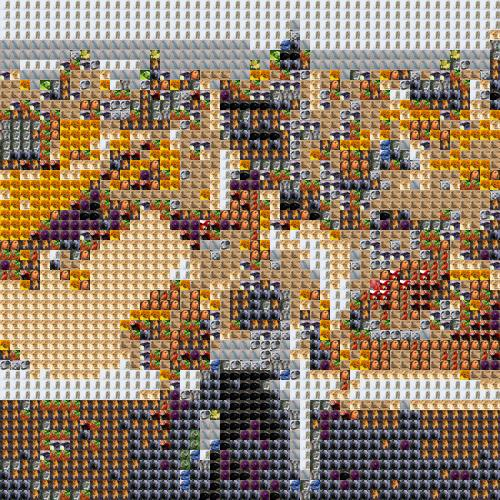
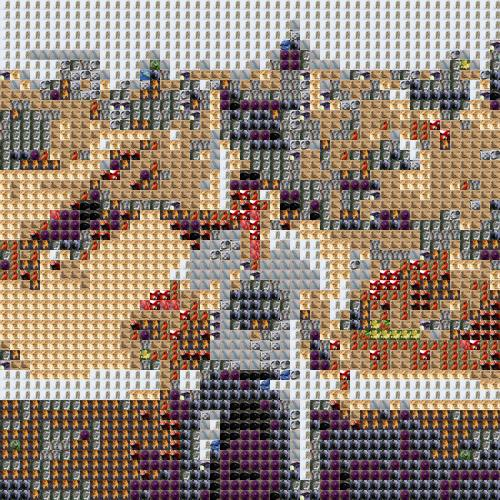
Fixed dodgy rgb average function + added dormant functions for wavelet hashing for future work

diff --git a/mosaic.py b/mosaic.py
@@ -2,6 +2,7 @@ from PIL import Image, ImageOps
 from random import randint
 import os
 import math
+import imagehash
 
 ##################
 #open source image
@@ -27,21 +28,20 @@ def resize_library_images(tile_size):
   return images
 
 ##################
-#calculate average RGB of source image
+#calculate average RGB of image
 ##################
-def calc_average_rgb(image, histogram_average):
+def calc_average_rgb(image, histogram_average, is_block):
   width, height = image.size
-
   PixelValues = list(image.getdata())
 
   #if an RGB value occurs only once, we consider it an outlier, and do not include in
   # our calculcation of the mean
   if histogram_average:
-    for i in PixelValues:
-      if PixelValues.count(i) < 2:
-        #print i, PixelValues.count(i)
-        PixelValues.remove(i)
-    #print len(PixelValues)
+    if is_block:
+      for i in PixelValues:
+        if PixelValues.count(i) < 2:          
+          PixelValues.remove(i)
+      #print len(PixelValues)
 
   RValues = [x[0] for x in PixelValues]
   GValues = [x[1] for x in PixelValues]
@@ -51,16 +51,25 @@ def calc_average_rgb(image, histogram_average):
   return average_rgb_value
 
 ##################
+#calculate hash of image
+##################
+def calc_image_hash(image):
+  hash1 = imagehash.whash(image)
+  #print hash1
+  return hash1
+
+##################
 #divide source image into blocks for replacement
 ##################
-def divide_image_into_blocks(image, tile_size, output_dict, histogram_average):
+def divide_image_into_blocks(image, tile_size, output_rgb_dict, output_hash_dict, histogram_average):
   width, height = image.size
 
   coordinate = 0;
   for i in range(0, width, tile_size[0]):
     for j in range(0, height, tile_size[1]):
       cropped_image = image.crop((i, j, i+tile_size[0], j+tile_size[1]))
-      output_dict[coordinate] = calc_average_rgb( cropped_image, histogram_average )
+      output_rgb_dict[coordinate] = calc_average_rgb(cropped_image, histogram_average, True)
+      output_hash_dict[coordinate] = calc_image_hash(cropped_image)
       coordinate += 1
 
   return ((i,j))
@@ -69,18 +78,35 @@ def divide_image_into_blocks(image, tile_size, output_dict, histogram_average):
 #get euclidean distance between 2 RGB values
 ##################
 def distance( x , y ):
-  dist = math.sqrt((x[0] - y[0])**2 + (x[1] - y[1])**2)
+  dist = math.sqrt((x[0] - y[0])**2 + (x[1] - y[1])**2 + (x[2] - y[2])**2)
   return dist
+
+##################
+#get euclidean distance between 2 RGB values
+##################
+def hash_diff( x , y ):
+  diff = x - y
+  return diff
 
 ##################
 #returns closest tile to block
 ##################
 def closest_tile(tile_rgb_averages, block_rgb_average, vary_tiles):
-  sorted_rgv_values = sorted(tile_rgb_averages, key=lambda x:distance(x, block_rgb_average))
+  sorted_rgb_values = sorted(tile_rgb_averages, key=lambda x:distance(x, block_rgb_average))
   if vary_tiles:
-    return sorted_rgv_values[randint(0, 1)]
+    return sorted_rgb_values[randint(0, 1)]
   else:
-    return sorted_rgv_values[0]
+    return sorted_rgb_values[0]
+
+##################
+#returns closest tile to block based on hash value
+##################
+def closest_tile_hashing(tile_hashes, block_hash, vary_tiles):
+  sorted_rgb_values = sorted(tile_hashes, key=lambda x:hash_diff(x, block_hash))
+  if vary_tiles:
+    return sorted_rgb_values[randint(0, 1)]
+  else:
+    return sorted_rgb_values[0]
 
 ##################
 #main method - construct mosaic from tiles in library
@@ -95,13 +121,20 @@ def create_mosaic(source_image, input_tile_size, outlier_flagging, vary_tiles, h
 
   #Key = RGB, Value = Image
   tile_rgb_averages = {}
+  #Key = hash, Value = Image
+  tile_hashes = {}
   for t in tiles:
-    tile_rgb_averages[calc_average_rgb(t, histogram_average)] = t
+    tile_rgb_averages[calc_average_rgb(t, histogram_average, False)] = t
+    tile_hashes[calc_image_hash(t)] = t
+  #print tile_hashes
 
   #Key = Coordinate in Source, Value = RGB
   block_rgb_dict = {}
-  cropped_image_xy = divide_image_into_blocks(target_image, tile_size, block_rgb_dict, histogram_average)
-  
+  #Key = Coordinate in Source, Value = hash
+  block_hash_dict = {}
+  cropped_image_xy = divide_image_into_blocks(target_image, tile_size, block_rgb_dict, block_hash_dict, histogram_average)
+  #print block_hash_dict
+
   #create base mosaic image of default dimensions
   mosaic = Image.new('RGB', (target_image.size[0], target_image.size[1]), color=(255, 0, 255))
 
@@ -113,6 +146,9 @@ def create_mosaic(source_image, input_tile_size, outlier_flagging, vary_tiles, h
   for i in range(0, len(block_rgb_dict.keys()), 1):    
     #find closest colour tile in library to this specific block
     tile_to_replace_block = closest_tile(tile_rgb_averages.keys(), block_rgb_dict.values()[i], vary_tiles)
+    
+    #HASHING CODE
+    #tile_to_replace_block = closest_tile_hashing(tile_hashes.keys(), block_hash_dict.values()[i], vary_tiles)
 
     #flag up when there isn't a close tile match, indicating we need a better library image
     #50 is a magic number, how do we determine where that comes from?
@@ -121,6 +157,9 @@ def create_mosaic(source_image, input_tile_size, outlier_flagging, vary_tiles, h
     else:
       #paste tile into place in output mosaic image
       mosaic.paste(tile_rgb_averages.get(tile_to_replace_block), (x_offset,y_offset))
+    
+    #HASHING CODE
+    #mosaic.paste(tile_hashes.get(tile_to_replace_block), (x_offset,y_offset))
 
     #sets the point to place the next tile
     if y_offset < cropped_image_xy[1]:
@@ -137,4 +176,3 @@ def create_mosaic(source_image, input_tile_size, outlier_flagging, vary_tiles, h
   os.path.splitext(source_image)[0]
   mosaic.save('/home/mbax4sd2/3rd Year Project/output/%s%smosaic.jpg' % (os.path.splitext(source_image)[0], input_tile_size)) 
   mosaic.show()
-
